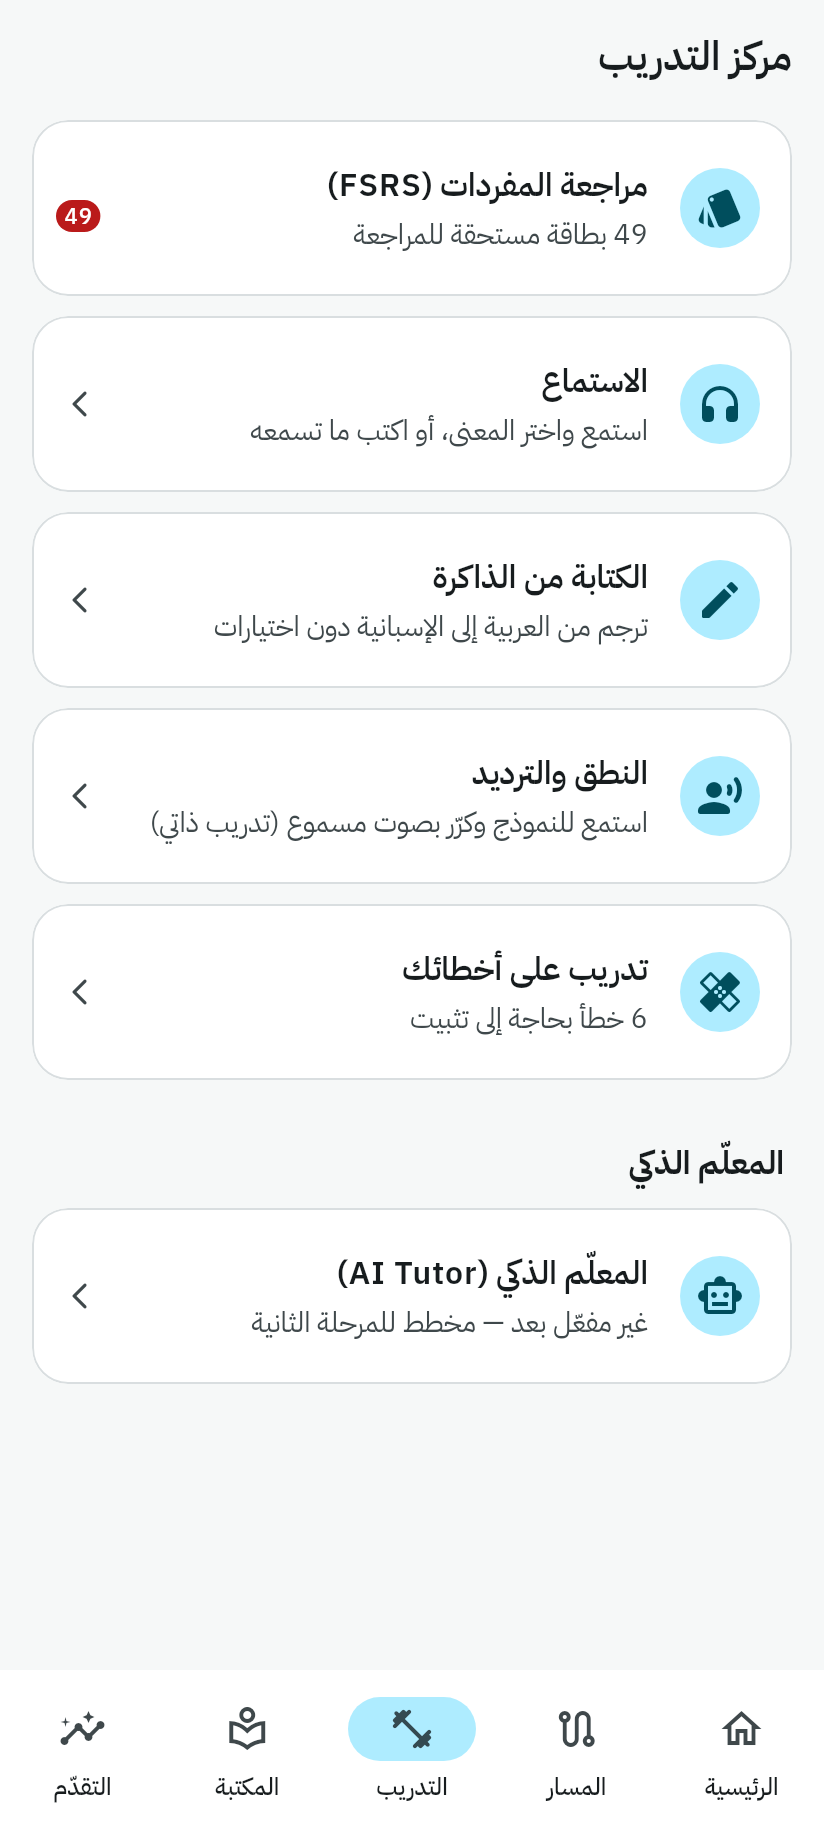
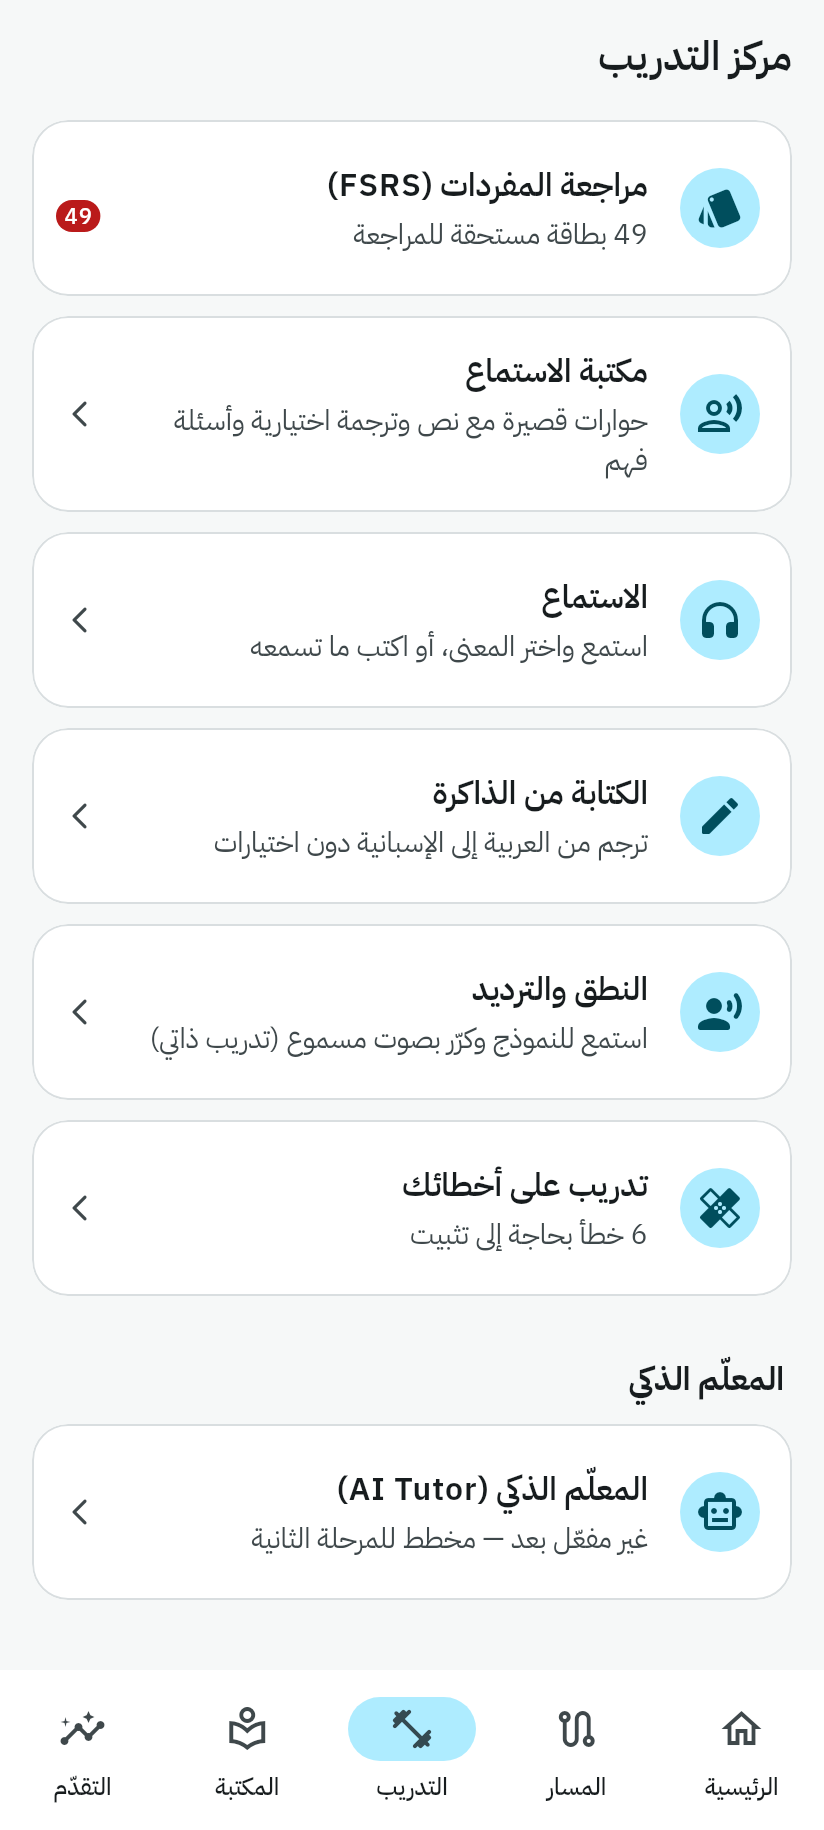
docs: listening library schema, linguistic QA checklist, status and screenshots
Claude-Session: https://claude.ai/code/session_014cGpiLcERRNXHMXNNCGtL2

diff --git a/test_screenshots/screenshots_test.dart b/test_screenshots/screenshots_test.dart
@@ -168,5 +168,29 @@ void main() {
     await app.pump(tester, location: '/settings');
     await shot(tester, '17_settings');
     await app.dispose(tester);
+
+    // Listening library and player, for a learner who finished Pre-A1 and
+    // A1-U1 (so every shipped dialogue is open).
+    app = await seeded();
+    final repo = ProgressRepository(
+      app.db,
+      ReviewRepository(app.db, clock: app.clock.call, enableFuzzing: false),
+      clock: app.clock.call,
+    );
+    for (final l in pack.orderedLessons) {
+      await repo.completeLesson(
+        l,
+        score: 1,
+        seconds: 60,
+        contentVersion: pack.version,
+      );
+    }
+    await app.pump(tester, location: '/listening');
+    await shot(tester, '19_listening_library');
+    await app.pump(tester, location: '/listening/dlg_a1_recepcion');
+    await tester.tapKey('toggle-transcript');
+    await tester.tapKey('toggle-translation');
+    await shot(tester, '20_dialogue_player');
+    await app.dispose(tester);
   });
 }

diff --git a/AI_BRIDGE/PROJECT_PLAN.md b/AI_BRIDGE/PROJECT_PLAN.md
@@ -1,8 +1,8 @@
 # Español Pro — الخطة الشاملة للمشروع
 
 owner: Claude Code
-plan_version: 3
-updated_at_utc: 2026-11-17T09:00:00Z
+plan_version: 4
+updated_at_utc: 2026-11-17T10:00:00Z
 يُحدَّث مع كل handoff. آخر حالة تنفيذ مرجعية: `AI_BRIDGE/CLAUDE_STATUS.md`.
 
 هذه الوثيقة تغطي **كل** أقسام المواصفة الرئيسية (1–28) وتفصل بصرامة بين أربع حالات:
@@ -107,9 +107,9 @@ updated_at_utc: 2026-11-17T09:00:00Z
 | البند | الحالة | الدليل / الملاحظة |
 |---|---|---|
 | تمارين استماع وإملاء، سرعة عادية/بطيئة | ✅ | `exercise_builder_test` |
-| مكتبة حوارات وقصص متدرّجة | ⬜ | المرحلة 1.2 |
-| نص اختياري، ترجمة اختيارية، إعادة جملة/مقطع | ⬜ | المرحلة 1.2 |
-| مقدِّر صعوبة بالقواعد | ⬜ | المرحلة 1.2 |
+| مكتبة حوارات متدرّجة | 🟡 | ٦ حوارات أصلية (Pre-A1 و A1-U1) — PR 1.2A؛ لم تُجرَّب على جهاز |
+| نص اختياري، ترجمة اختيارية، إعادة جملة، سرعات | 🟡 | PR 1.2A: مختبَر آلياً (`dialogue_player_test`، `listening_flow_test`)؛ لم يُجرَّب على جهاز |
+| مقدِّر صعوبة بالقواعد | ⬜ | PR 1.2C |
 | أصوات متعددة ولهجات | 🟡 | اختيار es-MX / es-ES / es-US حسب أصوات الجهاز |
 | صوت بشري مسجّل | ⬜ | TTS الجهاز فقط |
 
@@ -250,9 +250,9 @@ updated_at_utc: 2026-11-17T09:00:00Z
 
 | العمل | معيار القبول |
 |---|---|
-| مكتبة حوارات مبنية على محتوى الدروس: نص اختياري، ترجمة اختيارية، إعادة جملة، سرعات | اختبار واجهة + مدقّق محتوى للحوارات |
+| مكتبة حوارات مبنية على محتوى الدروس: نص اختياري، ترجمة اختيارية، إعادة جملة، سرعات | اختبار واجهة + مدقّق محتوى للحوارات — 🟡 PR 1.2A |
 | مقدِّر صعوبة بالقواعد (نسبة الكلمات المعروفة، طول الجملة، القواعد المستخدمة) | اختبارات وحدة حتمية |
-| نقاط تحقق الوحدات: مهام بلا تلميحات على مادة الوحدة | جدولا `assessments` و`assessment_results` (ترحيل v4 مختبَر) |
+| نقاط تحقق الوحدات: مهام بلا تلميحات على مادة الوحدة | نتائج في SQLite بترحيل **v5** مختبَر (v4 مستعمَل للعبارات المحفوظة)؛ تعريفات الاختبارات في JSON — PR 1.2B |
 | جودة الإملاء منفصلة عن الصواب؛ علامات النبر إلزامية في الأنشطة المتقدمة | عمود لحكم التصحيح + اختبارات |
 | عرض أدلة «أستطيع أن…» لكل وحدة بناءً على نتائج نقاط التحقق | لا يظهر أي تقدير بلا نتيجة اختبار |
 

diff --git a/docs/LINGUISTIC_QA.md b/docs/LINGUISTIC_QA.md
@@ -1,0 +1,50 @@
+# Linguistic QA checklist
+
+For a qualified human reviewer of the Spanish and Arabic content. Automated
+validation (`dart run tool/validate_content.dart`) checks structure only; it
+cannot tell whether a sentence is natural, a translation is accurate or a
+register is right. Content stays `author_reviewed` in `curriculum.json` until
+a human has worked through this list.
+
+Scope at content v1.1.0: 12 lessons (`assets/content/v1/units/`), 14 grammar
+notes, 6 dialogues (`assets/content/v1/dialogues/`).
+
+## For every Spanish sentence
+
+- [ ] Grammatical, and natural for the stated situation and speakers.
+- [ ] Accents, `ñ`, `¿ ?` and `¡ !` correct.
+- [ ] Agreement in gender and number (`encantado/encantada`, `bienvenido/a`).
+- [ ] Register matches the scene: `usted` with clients, strangers and
+      managers; `tú` with peers and friends. The same speaker stays consistent.
+- [ ] Verb forms correct for the person.
+- [ ] Uses only language the learner has met by that point (the validator
+      checks vocabulary ids, not grammar or set phrases inside sentences).
+- [ ] No regionalism presented as universal without a note. The default
+      voice is es-MX.
+
+## For every Arabic translation
+
+- [ ] Accurate meaning, not word-for-word.
+- [ ] Gender of the addressee correct (أنتَ / أنتِ, حضرتك).
+- [ ] Natural Modern Standard Arabic suitable for an adult learner.
+
+## Explanations and claims
+
+- [ ] Pronunciation descriptions are qualified where they vary by region.
+- [ ] No absolute rule stated where exceptions exist.
+- [ ] Etymologies (`hasta` ← حتّى, `cero` ← صِفْر) checked against an
+      etymological dictionary (e.g. the RAE's DLE); otherwise removed.
+
+## Dialogues
+
+- [ ] Each turn fits its speaker's role and the scenario.
+- [ ] The Arabic for each turn matches its Spanish.
+- [ ] Every comprehension question is answerable from what is heard, has
+      exactly one defensible answer, and its explanation is correct.
+- [ ] Dictation turns are sensible to write from listening at this level.
+
+## Recording the review
+
+When a lesson, dialogue or unit is reviewed, record who reviewed it, when,
+and what changed. Promote the source's `review_status` to `native_reviewed`
+only when the whole source has been reviewed.

diff --git a/docs/CONTENT_SCHEMA.md b/docs/CONTENT_SCHEMA.md
@@ -89,3 +89,42 @@ accurate. That is tracked by `review_status` (see `CURRICULUM.md`).
 2. Bump `version` (patch for fixes, minor for new lessons).
 3. Run the validator and `flutter test`.
 4. Never reuse or repurpose an existing item ID: review cards point at it.
+
+## Dialogues (listening library, content ≥ 1.1.0)
+
+`curriculum.json` lists dialogue files in `dialogue_files`
+(`dialogues/<level>.json`). Each file holds `{ "dialogues": [ … ] }`:
+
+```jsonc
+{
+  "id": "dlg_pa1_saludo",            // stable; attempts reference question ids
+  "level": "pre_a1", "unit": "pa1_u2",
+  "lessons": ["pa1_u2_l1", "pa1_u2_l2"], // unlocks when ALL are completed
+  "title_es": "…", "title_ar": "…", "scenario_ar": "…",
+  "objectives_ar": ["…"],
+  "speakers": [{ "id": "laura", "name": "Laura", "role_ar": "…" }],
+  "turns": [{ "id": "dlg_pa1_saludo.t1", "speaker": "laura",
+              "es": "…", "ar": "…", "en": "…" }],   // only `es` is ever spoken
+  "items": ["buenas_tardes"],        // vocabulary the dialogue practises
+  "grammar": ["g_greetings_time"],
+  "questions": [ /* see below */ ],
+  "source": "original-v1"
+}
+```
+
+| question `type` | fields | what the learner sees |
+|---|---|---|
+| `choice` | `prompt_ar`, `choices`, `answer` (index), optional `turn`, `choices_es`, `skill`, `explain_ar` | the turn's Spanish is **played, not shown**; choose |
+| `speaker` | `turn` | "who said this?"; choices are the dialogue's speakers |
+| `dictation` | `turn` | type what was heard |
+
+Validation adds: unique dialogue / turn / question ids; level, unit and
+lessons exist and agree; every vocabulary item exists **and is taught by the
+linked lessons or earlier**; grammar references exist; known speakers, at
+least two of whom speak; Spanish has no Arabic script and balanced `¿ ?` /
+`¡ !`; Arabic fields contain Arabic; at least 3 questions; valid answer
+indices, distinct choices, and existing turn references.
+
+Learner state is not stored separately. A dialogue's progress is derived
+from `activity_attempts` rows with `context = 'listening'` whose
+`activity_id` is a question id (first attempts only, most recent run).

diff --git a/docs/IMPLEMENTATION_STATUS.md b/docs/IMPLEMENTATION_STATUS.md
@@ -50,6 +50,18 @@ formatting and content v1.0.2 passed validation, and Drift regeneration
 produced an identical checked-in file. The database and backup schema
 remain at v3.
 
+## Phase 1.2A — listening library (PR in review)
+
+| Area | Evidence |
+|---|---|
+| Six original dialogues (4 Pre-A1, 2 A1-U1), 29 turns, 31 comprehension questions; content v1.1.0 | `listening_content_test`, `tool/validate_content.dart` |
+| Dialogue validation: ids, level/unit/lessons, vocabulary taught by the linked lessons, grammar, speakers, script and punctuation, question integrity; each rule proven on a broken copy | `listening_content_test` (15 negative cases) |
+| Dialogue player: whole dialogue turn by turn, single-sentence replay, pause (stops; resume restarts the sentence), stop, three speeds, no-voice state; stale playback can never move the state | `dialogue_player_test` |
+| Library: dialogues unlock when their lessons are completed; progress derived from first attempts | `listening_flow_test`, `listening_content_test` |
+| Player screen: transcript and Arabic translation hidden by default with toggles; only Spanish reaches the voice; sentences saved to «عباراتي»; vocabulary and grammar links | `listening_flow_test` |
+| Comprehension questions: audio played, sentence not shown; answers stored as attempts (context `listening`); retries are attempt 2 | `listening_flow_test` |
+| Not verified on a device: real TTS sequencing of turns, pause/resume timing, speed changes, long dialogues | — |
+
 ## Android build and runtime
 
 - The [code commit's CI run](https://github.com/abdulrahmanal-saeed/Espa-ol-Pro/actions/runs/43900871431)

diff --git a/docs/CURRICULUM.md b/docs/CURRICULUM.md
@@ -46,7 +46,7 @@ Pre-A1 is a preparatory stage, not a DELE level.
 whole road is visible in the app, clearly labelled "قيد الإعداد". They contain
 no lessons and are never counted as progress.
 
-## Shipped lessons (content v1.0.2)
+## Shipped lessons (content v1.0.2; unchanged in v1.1.0)
 
 | # | Lesson | New items | Focus |
 |---|---|---|---|
@@ -92,3 +92,16 @@ is pending.
 
 Accent: default voice es-MX (seseo); notes point out Castilian differences
 (c/z as θ) where they matter.
+
+## Dialogues (content v1.1.0)
+
+| Id | Level | Built on | Situation |
+|---|---|---|---|
+| `dlg_pa1_saludo` | Pre-A1 | lessons 4–5 | Colleagues part at the end of the day |
+| `dlg_pa1_presentacion` | Pre-A1 | lessons 5–6 | Formal first meeting with a client (usted) |
+| `dlg_pa1_telefono` | Pre-A1 | lessons 7–8 | Exchanging phone numbers digit by digit |
+| `dlg_pa1_origen` | Pre-A1 | lesson 9 | Informal introductions at a language course (tú) |
+| `dlg_a1_idiomas` | A1 | lessons 10–11 | Languages and jobs at a trade fair |
+| `dlg_a1_recepcion` | A1 | lessons 11–12 | A client arrives at reception and is introduced |
+
+All are original and `author_reviewed`; see [LINGUISTIC_QA.md](LINGUISTIC_QA.md).
